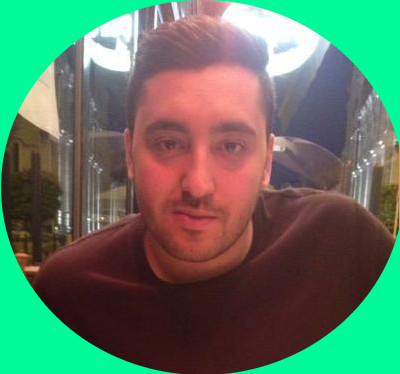
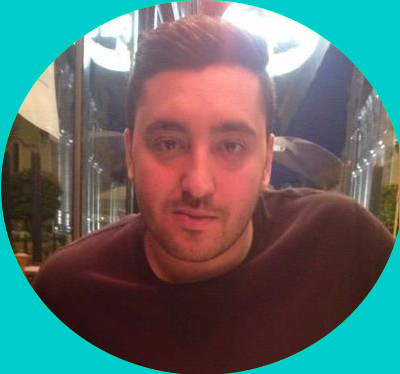
mon cv

Changed region(s): [[0.57, 0.0, 1.0, 1.0], [0.0, 0.0, 0.45, 0.4706], [0.0, 0.5294, 0.42, 1.0]]

diff --git a/css/freelancer.css b/css/freelancer.css
@@ -27,7 +27,7 @@ a:focus,
 a:active,
 a.active {
     outline: 0;
-    color:#00FA9A;
+    color:#00CCCC;
 }
 
 h1,
@@ -68,7 +68,7 @@ hr.star-light {
 
 hr.star-light:after {
     color: #fff;
-    background-color:#00FA9A;
+    background-color:#00CCCC;
 }
 
 hr.star-primary {
@@ -87,7 +87,7 @@ hr.star-primary:after {
 header {
     text-align: center;
     color: #fff;
-    background:#00FA9A;
+    background:#00CCCC;
 }
 
 header .container {
@@ -180,13 +180,14 @@ section {
 }
 
 section h2 {
-    margin: 0;
+    text-align:center;
     font-size: 3em;
+    margin-bottom:4%;
 }
 
 section.success {
     color: #fff;
-    background:#00FA9A;
+    background:#00CCCC;
 }
 
 section.success a,
@@ -279,14 +280,14 @@ section.success a.active {
 .btn-outline:active,
 .btn-outline.active {
     border: solid 2px #fff;
-    color:#00FA9A;
+    color:#00CCCC;
     background: #fff;
 }
 
 .bouttonenvoyer{
-    border: solid 2px #00FA9A;
+    border: solid 2px #00CCCC;
     color:black;
-    background: #00FA9A;
+    background: #00CCCC;
     display:block;
     margin-left:auto;
     margin-right:auto;
@@ -297,7 +298,7 @@ section.success a.active {
 .bouttonenvoyer:active,
 .bouttonenvoyer.active {
     border: solid 2px black;
-    color:#00FA9A;
+    color:#00CCCC;
     background: black;
     display:block;
     margin-left:auto;
@@ -309,7 +310,7 @@ section.success a.active {
     position: relative;
     margin-bottom: 0;
     padding-bottom: .5em;
-    border-bottom: 1px solid #00FA9A;
+    border-bottom: 1px solid #00CCCC;
     background-color:white;
 }
 
@@ -346,7 +347,7 @@ section.success a.active {
 
 .floating-label-form-group::not(:first-child) {
     padding-left: 14px;
-    border-left: 1px solid #00FA9A;
+    border-left: 1px solid #00CCCC;
 }
 
 .floating-label-form-group-with-value label {
@@ -359,7 +360,7 @@ section.success a.active {
 }
 
 form .row:first-child .floating-label-form-group {
-    border-top: 1px solid #00FA9A;
+    border-top: 1px solid #00CCCC;
 }
 
 .form-control{

diff --git a/index.html b/index.html
@@ -8,6 +8,7 @@
   ga('send', 'pageview');
 
 </script>
+
 <!DOCTYPE html>
 <html>
 <head>
@@ -86,8 +87,7 @@
                     <img class="img-responsive" src="img/photomoi.jpg" alt="">
                     <div class="intro-text">
                         <span class="name">ACHOURI ILIES</span>
-                        <hr class="star-light">
-                        <span class="skills">Développeur web front end/Webdesigner</span>
+                        <span class="skills">Intégrateur web/Développeur web front end/Webdesigner</span>
                     </div>
                 </div>
             </div>
@@ -100,7 +100,6 @@
             <div class="row">
                 <div class="col-lg-12 text-center">
                     <h2>Portfolio</h2>
-                    <hr class="star-primary">
                 </div>
             </div>
             <div class="row">
